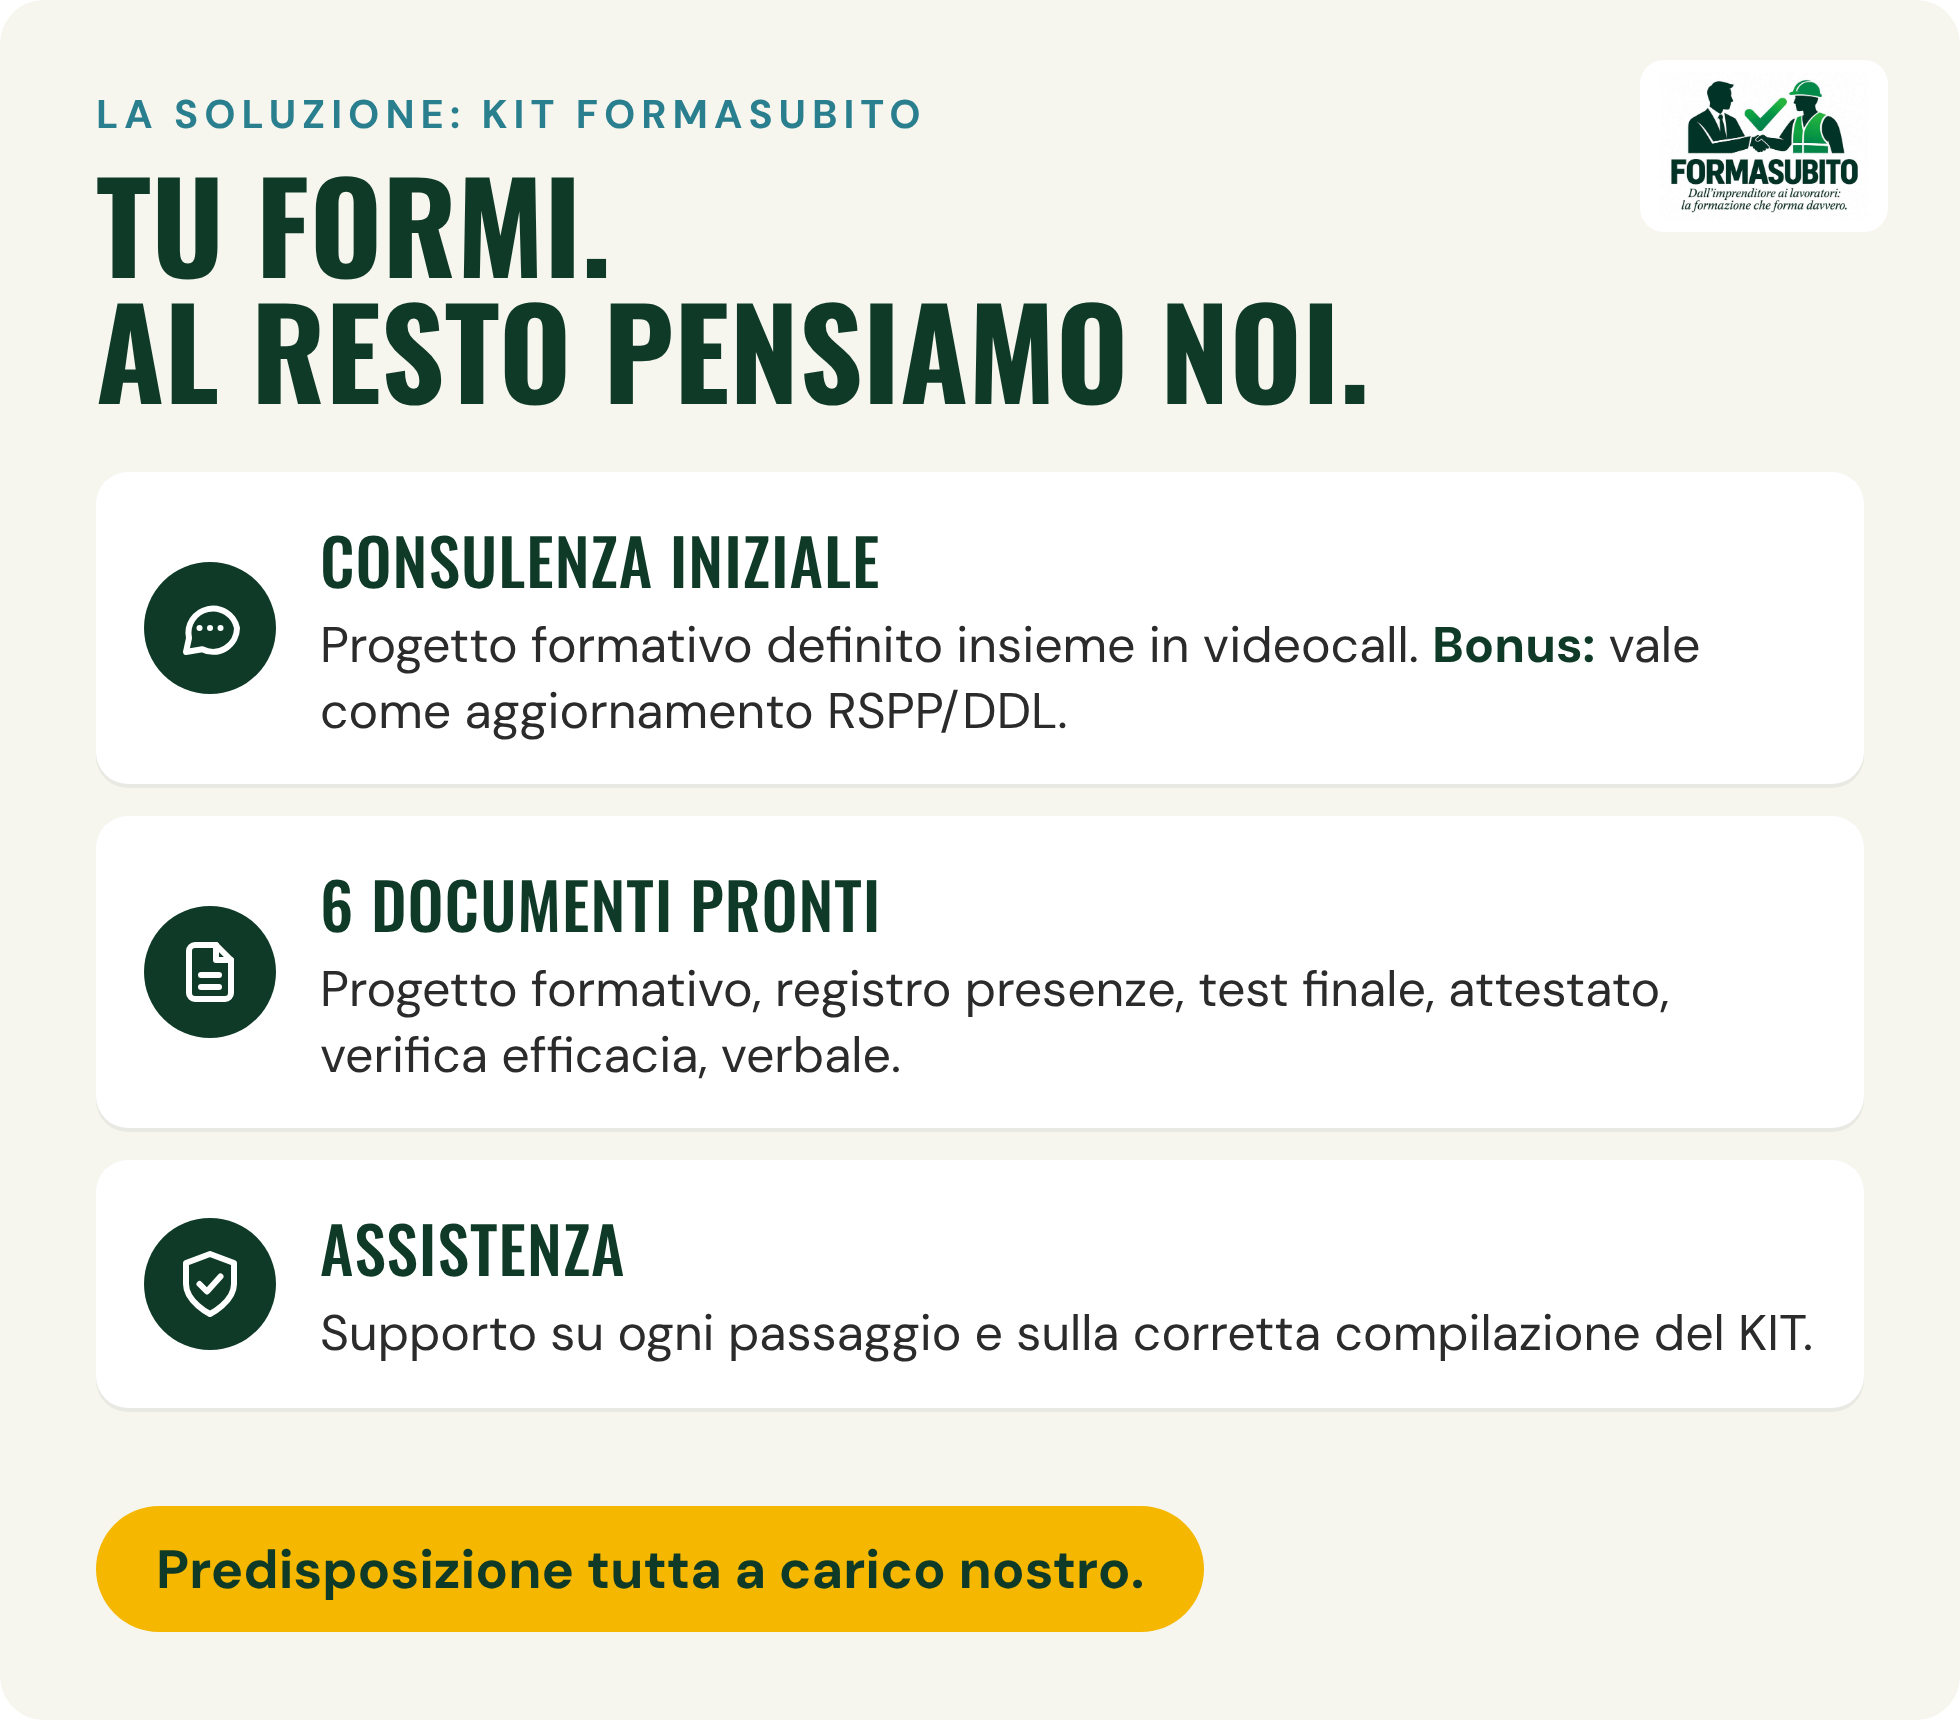
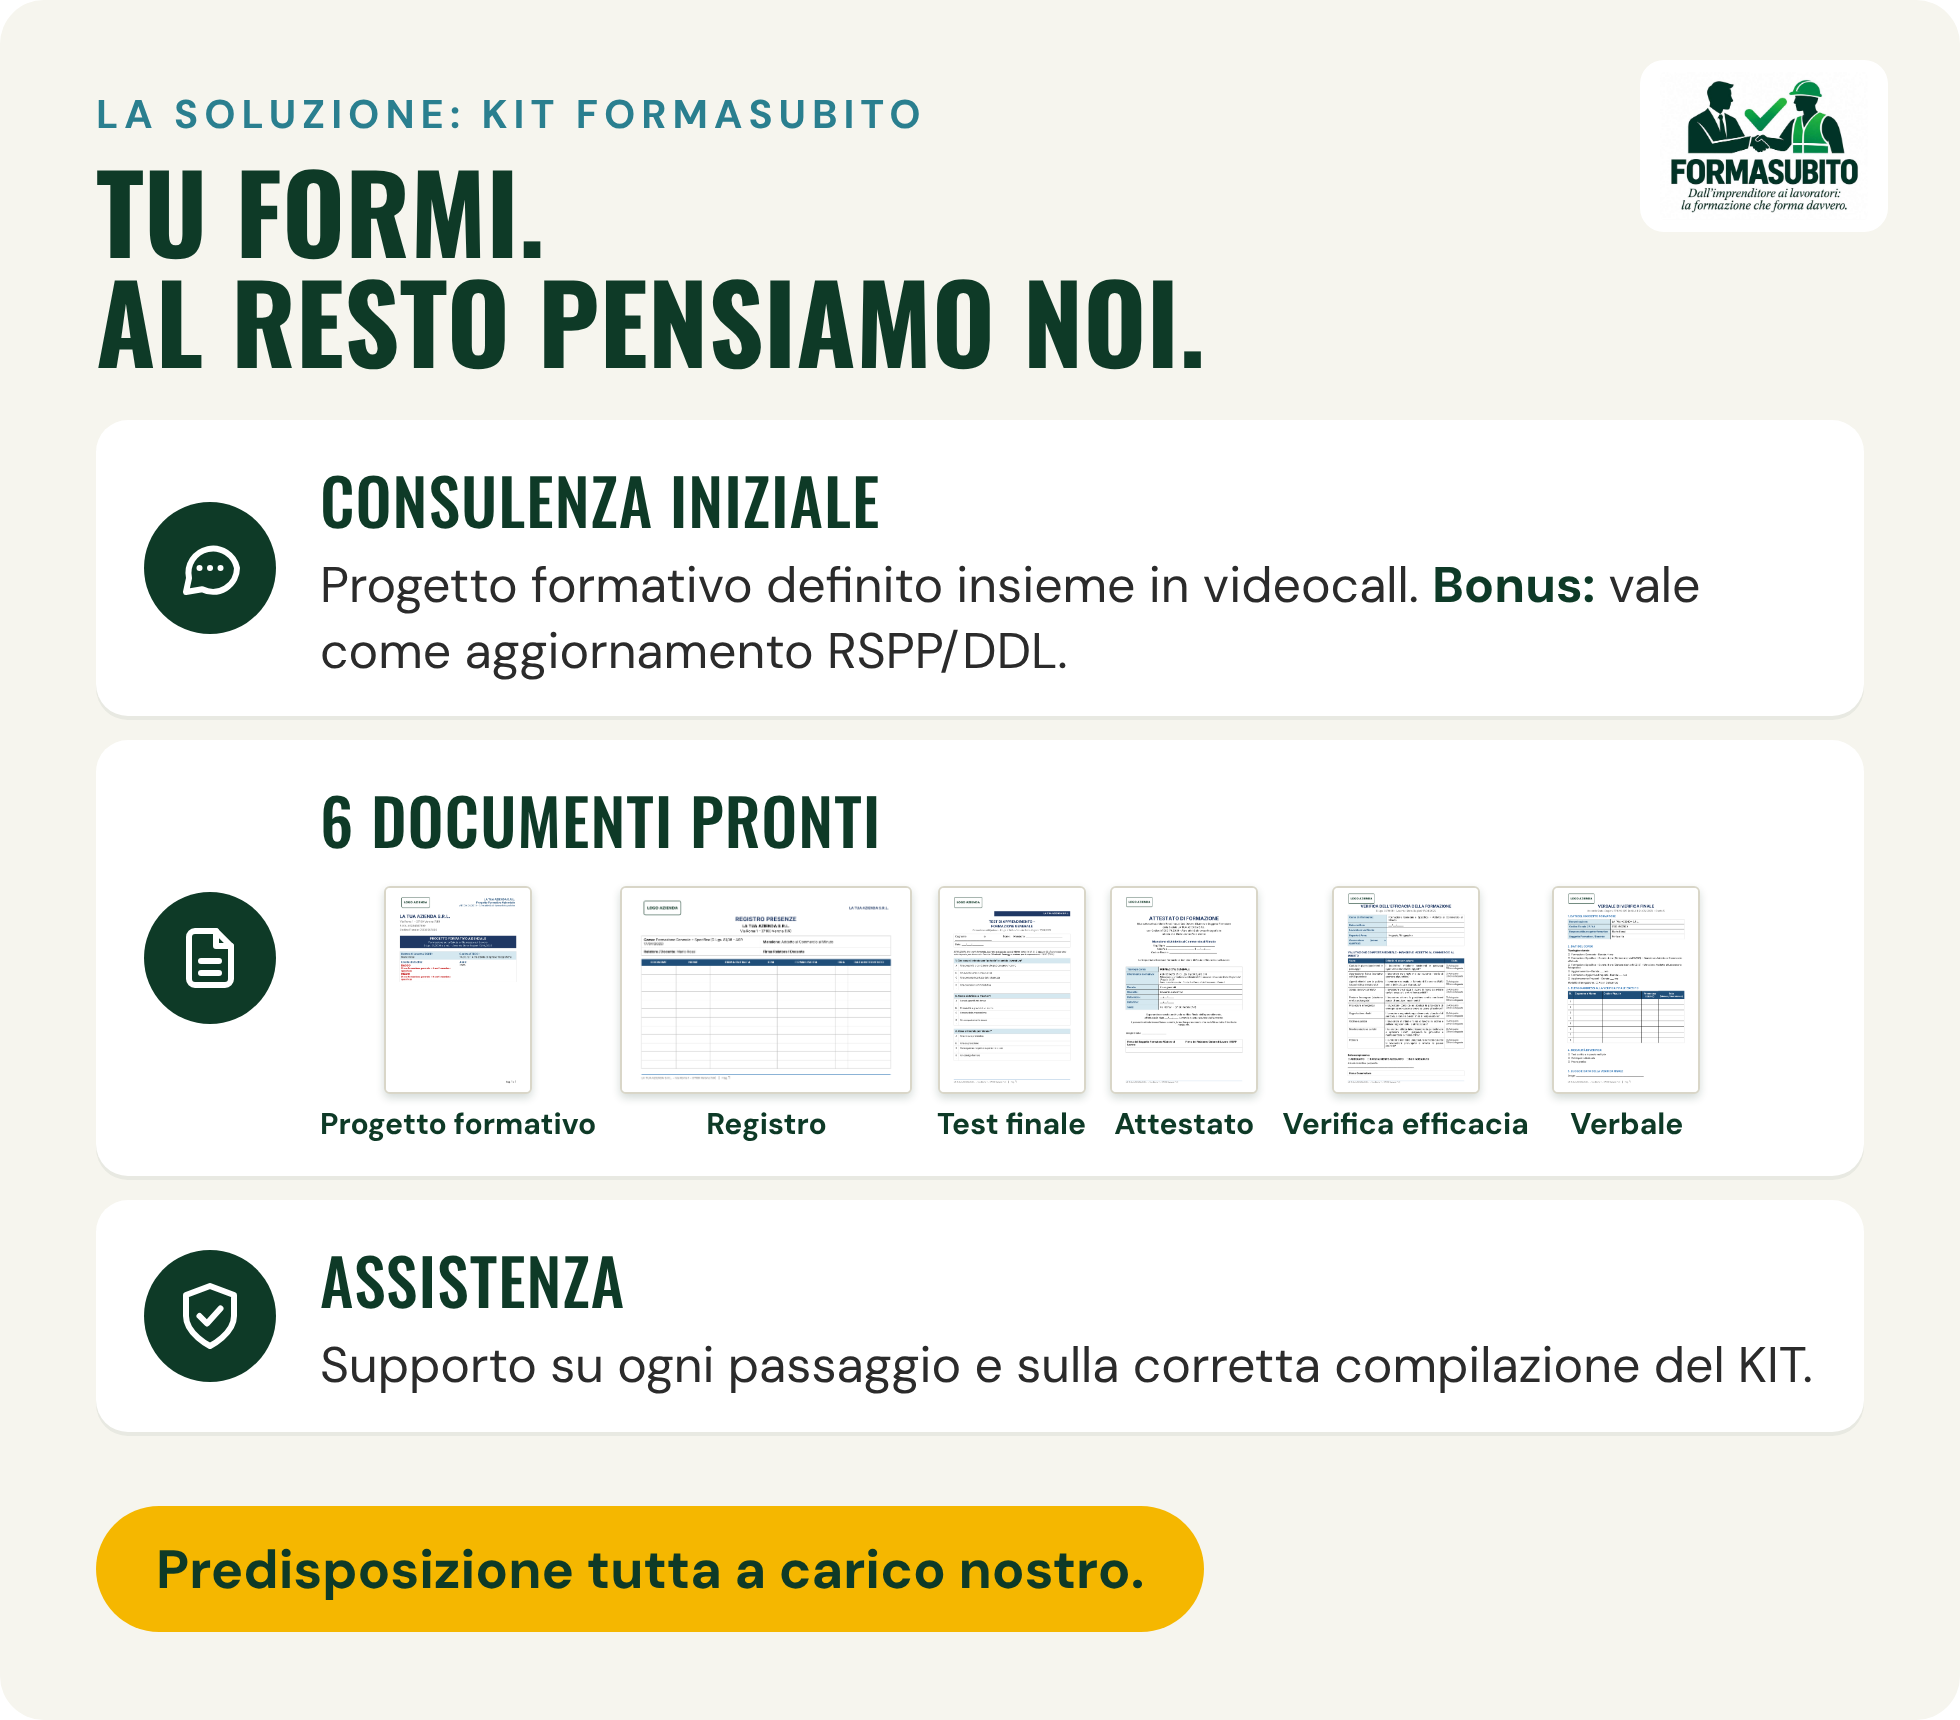
feat(offerta): miniature dei 6 documenti nella grafica tu-formi e pagina 1 sempre su una facciata
- tu-formi: nel riquadro "6 documenti pronti" le miniature della prima pagina dei
  6 documenti (da un KIT di esempio intestato a "LA TUA AZIENDA S.R.L.");
  sorgente con font e miniature in assets/grafiche/sorgenti/ (node render.js)
- passo Pagamento accorciato (bonifico IVA inclusa, IBAN, causale)
- grafica ridotta automaticamente con riepiloghi lunghi; nei casi estremi
  spazi compatti in riepilogo, oggetto e passi: l'offerta resta di 3 pagine

Claude-Session: https://claude.ai/code/session_01Tw4mttwAeWkLiuQxoox5hr

diff --git a/offerta/assets/grafiche/sorgenti/tu-formi.html b/offerta/assets/grafiche/sorgenti/tu-formi.html
@@ -9,25 +9,29 @@ body{background:#fff}
 .g{width:980px;height:860px;background:var(--crema);border-radius:22px;padding:44px 48px;font-family:DM;color:var(--testo);position:relative;display:flex;flex-direction:column}
 .logo{position:absolute;top:30px;right:36px;height:86px;background:#fff;border-radius:12px;padding:6px 10px}
 .k{font-family:DM;font-weight:700;font-size:20px;letter-spacing:3px;color:#2A7F8F;text-transform:uppercase}
-h1{font-family:Osw;font-weight:700;font-size:62px;line-height:1.02;color:var(--verde);margin-top:10px;text-transform:uppercase}
-.cards{margin-top:30px;display:flex;flex-direction:column;gap:16px;flex:1}
-.c{background:#fff;border-radius:16px;padding:20px 24px;display:flex;gap:22px;align-items:center;box-shadow:0 2px 0 rgba(14,58,39,.06)}
+h1{font-family:Osw;font-weight:700;font-size:54px;line-height:1.02;color:var(--verde);margin-top:8px;text-transform:uppercase}
+.cards{margin-top:22px;display:flex;flex-direction:column;gap:12px;flex:1}
+.c{background:#fff;border-radius:16px;padding:16px 24px;display:flex;gap:22px;align-items:center;box-shadow:0 2px 0 rgba(14,58,39,.06)}
 .i{flex:0 0 66px;height:66px;border-radius:50%;background:var(--verde);display:flex;align-items:center;justify-content:center}
 .i svg{width:36px;height:36px;stroke:#fff;fill:none;stroke-width:2;stroke-linecap:round;stroke-linejoin:round}
 .t{font-family:Osw;font-weight:500;font-size:32px;color:var(--verde);text-transform:uppercase;letter-spacing:.5px}
 .d{font-size:25px;line-height:1.3;margin-top:4px}
 .d b{color:var(--verde)}
-.pill{align-self:flex-start;margin-top:26px;background:var(--giallo);color:var(--verde);font-weight:700;font-size:27px;padding:14px 30px;border-radius:40px}
+.pill{align-self:flex-start;margin-top:18px;background:var(--giallo);color:var(--verde);font-weight:700;font-size:27px;padding:14px 30px;border-radius:40px}
+.mini{display:flex;gap:12px;margin-top:10px;align-items:flex-end}
+.mini figure{display:flex;flex-direction:column;align-items:center;gap:5px}
+.mini img{height:104px;border:1px solid #D9D6C8;border-radius:3px;box-shadow:0 2px 4px rgba(14,58,39,.18);background:#fff}
+.mini figcaption{font-size:15px;font-weight:700;color:var(--verde);white-space:nowrap}
 </style></head><body>
 <div class="g">
-  <img class="logo" src="logo_formasubito.png">
+  <img class="logo" src="../../logo_formasubito.png">
   <div class="k">La soluzione: KIT FORMASUBITO</div>
   <h1>Tu formi.<br>Al resto pensiamo noi.</h1>
   <div class="cards">
     <div class="c"><div class="i"><svg viewBox="0 0 24 24"><path d="M21 12a8 8 0 0 1-11.6 7.1L4 20l1-4.6A8 8 0 1 1 21 12z"/><path d="M8.5 12h.01M12 12h.01M15.5 12h.01"/></svg></div>
       <div><div class="t">Consulenza iniziale</div><div class="d">Progetto formativo definito insieme in videocall. <b>Bonus:</b> vale come aggiornamento RSPP/DDL.</div></div></div>
     <div class="c"><div class="i"><svg viewBox="0 0 24 24"><path d="M14 3H7a2 2 0 0 0-2 2v14a2 2 0 0 0 2 2h10a2 2 0 0 0 2-2V8z"/><path d="M14 3v5h5M9 13h6M9 17h6"/></svg></div>
-      <div><div class="t">6 documenti pronti</div><div class="d">Progetto formativo, registro presenze, test finale, attestato, verifica efficacia, verbale.</div></div></div>
+      <div><div class="t">6 documenti pronti</div><div class="mini"><figure><img src="miniature/doc1.png"><figcaption>Progetto formativo</figcaption></figure><figure><img src="miniature/doc2.png"><figcaption>Registro</figcaption></figure><figure><img src="miniature/doc3.png"><figcaption>Test finale</figcaption></figure><figure><img src="miniature/doc4.png"><figcaption>Attestato</figcaption></figure><figure><img src="miniature/doc5.png"><figcaption>Verifica efficacia</figcaption></figure><figure><img src="miniature/doc6.png"><figcaption>Verbale</figcaption></figure></div></div></div>
     <div class="c"><div class="i"><svg viewBox="0 0 24 24"><path d="M12 22s8-4 8-10V5l-8-3-8 3v7c0 6 8 10 8 10z"/><path d="M8.5 12l2.5 2.5 4.5-5"/></svg></div>
       <div><div class="t">Assistenza</div><div class="d">Supporto su ogni passaggio e sulla corretta compilazione del KIT.</div></div></div>
   </div>

diff --git a/offerta/assets/grafiche/sorgenti/render.js b/offerta/assets/grafiche/sorgenti/render.js
@@ -4,6 +4,6 @@ const { chromium } = require('playwright');
   const p = await b.newPage({ viewport: { width: 980, height: 860 }, deviceScaleFactor: 2 });
   await p.goto('file://' + __dirname + '/tu-formi.html');
   await p.evaluate(() => document.fonts.ready);
-  await p.locator('.g').screenshot({ path: __dirname + '/tu-formi.png', omitBackground: true });
+  await p.locator('.g').screenshot({ path: __dirname + '/../tu-formi.png', omitBackground: true });
   await b.close();
 })();

diff --git a/offerta/scripts/genera_offerta.py b/offerta/scripts/genera_offerta.py
@@ -32,6 +32,7 @@ offerta.json:
 "su" ammette: lavoratori, mansioni_aggiuntive, preposti, aggiornamenti, totale.
 """
 
+import math
 import argparse
 import copy
 import json
@@ -286,9 +287,8 @@ FONT = "Gill Sans MT"
 GIALLO, CREMA, ROSSO, GRIGIO = "F5B700", "F6F5EE", "B3261E", "6B6B6B"
 PROSSIMI_PASSI = [
     ("Firmate", "l'offerta e rimandatela a formasubito@overallgroup.info"),
-    ("Pagamento", "dell'importo di {ivato} ({totale} imponibile + {iva} IVA {aliquota}%) all'IBAN IT71 G083 4059 9600 0000 2176 704 "
-                  "(Cassa Padana BCC Società Cooperativa) intestato a OVERALL GROUP SRL, con causale "
-                  "\"Attivazione kit formasubito come da offerta del {data}\""),
+    ("Pagamento", "bonifico di {ivato} (IVA {aliquota}% inclusa) a OVERALL GROUP SRL, IBAN IT71 G083 4059 9600 0000 2176 704, "
+                  "causale \"Attivazione KIT FORMASUBITO, offerta del {data}\""),
     ("Consulenza", "in videocall: definiamo insieme il progetto formativo"),
 ]
 DESCRIZIONI = {
@@ -438,14 +438,15 @@ def _righe_riepilogo(info):
     return out
 
 
-def _box_riepilogo(doc, info):
+def _box_riepilogo(doc, info, compatto=False):
+    k = 0.5 if compatto else 1
     righe = _righe_riepilogo(info)
     t = _tabella_senza_bordi(doc, len(righe) + 2, 2, (Cm(12.0), Cm(5.0)))
     grigio = ("D9D9D9", 4)
     # intestazione verde
     h0, h1 = t.cell(0, 0), t.cell(0, 1)
     for c in (h0, h1):
-        _set_cell_shading(c, VERDE); _margini(c, 120, 120); _bordi(c, sopra=(VERDE, 8), sx=(VERDE, 8) if c is h0 else None,
+        _set_cell_shading(c, VERDE); _margini(c, int(120 * k), int(120 * k)); _bordi(c, sopra=(VERDE, 8), sx=(VERDE, 8) if c is h0 else None,
                                                                     dx=(VERDE, 8) if c is h1 else None)
         c.vertical_alignment = WD_ALIGN_VERTICAL.CENTER
     _run(_p(h0, nuovo=False), "LA VOSTRA PROPOSTA IN SINTESI", bold=True, size=12, colore="FFFFFF")
@@ -454,7 +455,7 @@ def _box_riepilogo(doc, info):
     for i, (nome, descr, importo, sconto) in enumerate(righe, start=1):
         c0, c1 = t.cell(i, 0), t.cell(i, 1)
         for c in (c0, c1):
-            _margini(c, 90, 90); c.vertical_alignment = WD_ALIGN_VERTICAL.CENTER
+            _margini(c, 30 if compatto else 90, 30 if compatto else 90); c.vertical_alignment = WD_ALIGN_VERTICAL.CENTER
         _bordi(c0, sotto=grigio, sx=grigio); _bordi(c1, sotto=grigio, dx=grigio)
         colore = ROSSO if sconto else None
         _run(_p(c0, nuovo=False), nome, size=10, colore=colore)
@@ -465,7 +466,7 @@ def _box_riepilogo(doc, info):
     n = len(righe) + 1
     t0, t1 = t.cell(n, 0), t.cell(n, 1)
     for c in (t0, t1):
-        _set_cell_shading(c, CREMA); _margini(c, 140, 140); c.vertical_alignment = WD_ALIGN_VERTICAL.CENTER
+        _set_cell_shading(c, CREMA); _margini(c, int(140 * k), int(140 * k)); c.vertical_alignment = WD_ALIGN_VERTICAL.CENTER
     _bordi(t0, sotto=grigio, sx=grigio); _bordi(t1, sotto=grigio, dx=grigio)
     _run(_p(t0, nuovo=False), "Totale annuo", bold=True, size=11)
     _run(_p(t1, nuovo=False, align=WD_ALIGN_PARAGRAPH.RIGHT), formatta_eur(info["totale"]), bold=True, size=18, colore=VERDE)
@@ -480,7 +481,7 @@ def _badge(p, numero):
     r._r.get_or_add_rPr().append(shd)
 
 
-def _passi(container_cell, info, data_str):
+def _passi(container_cell, info, data_str, compatto=False):
     """Tre schede crema con numero giallo, una sotto l'altra."""
     n = container_cell.add_table(rows=len(PROSSIMI_PASSI), cols=1)
     n.autofit = False
@@ -488,7 +489,7 @@ def _passi(container_cell, info, data_str):
     for i, (titolo, testo) in enumerate(PROSSIMI_PASSI):
         c = n.cell(i, 0)
         c.width = Cm(6.4)
-        _set_cell_shading(c, CREMA); _margini(c, 110, 110, 160, 160)
+        _set_cell_shading(c, CREMA); _margini(c, 50 if compatto else 110, 50 if compatto else 110, 160, 160)
         _bordi(c, sopra=("FFFFFF", 24) if i else None, sotto=("FFFFFF", 24) if i < len(PROSSIMI_PASSI) - 1 else None)
         p = _p(c, nuovo=False)
         _badge(p, i + 1)
@@ -499,7 +500,33 @@ def _passi(container_cell, info, data_str):
     return n
 
 
+def _larghezza_grafica(cliente, info, spec):
+    """Larghezza (cm) della grafica perché la pagina 1 resti su una facciata.
+
+    ponytail: stima a righe calibrata sul PDF di LibreOffice (pt per riga misurati);
+    con un riepilogo lungo la grafica si riduce fino all'altezza dei prossimi passi.
+    Se cambiano font, testi o spaziature della pagina 1, ricalibrare le costanti."""
+    L, H_PIENA, H_MIN, MARGINE = 9.8, 243.8, 180.0, 107.7     # cm, pt, pt, pt
+    righe = _righe_riepilogo(info)
+    extra = sum(31.3 if d else 21.6 for _, d, _, _ in righe) - 31.3
+    n_ind = len([r for r in cliente["indirizzo"].split("\n") if r.strip()]) + 1
+    extra += 12.1 * max(0, n_ind - 3)
+    extra += 14.5 * (math.ceil(len(cliente["ragione"]) / 28) - 1)
+    extra += 10.0 * (math.ceil(len(cliente["mail"]) / 45) - 1)
+    if spec.get("nota"):
+        extra += 12.7 + 9.6 * (math.ceil(len(spec["nota"]) / 140) - 1)
+    h = H_PIENA - max(0.0, extra - MARGINE)
+    compatto = h < H_MIN          # spazi ridotti in riepilogo, oggetto e passi (stessi testi)
+    if compatto:
+        h, h_min = min(H_PIENA, h + 6 * len(righe) + 26), H_MIN - 18
+        if h < h_min:
+            print(f"⚠  Riepilogo molto lungo: la pagina 1 potrebbe non stare su una facciata (mancano ~{h_min - h:.0f} pt). Controlla il PDF.")
+            h = h_min
+    return round(L * h / H_PIENA, 2), compatto
+
+
 def pagina_lettera(doc, cliente, info, spec, data_str):
+    largh_grafica, compatto = _larghezza_grafica(cliente, info, spec)
     # data, riferimenti e destinatario, staccati dall'intestazione
     _par(doc, prima=0, dopo=12)
     t = _tabella_senza_bordi(doc, 1, 2, (Cm(8.8), Cm(8.2)))
@@ -518,14 +545,14 @@ def pagina_lettera(doc, cliente, info, spec, data_str):
     _run(_p(dx, prima=3), cliente["mail"], size=8.5, colore=GRIGIO)
 
     # oggetto e apertura
-    _run(_p(doc, prima=16), "Oggetto: offerta KIT FORMASUBITO – formazione obbligatoria D.Lgs. 81/08 erogata in azienda",
+    _run(_p(doc, prima=8 if compatto else 16), "Oggetto: offerta KIT FORMASUBITO – formazione obbligatoria D.Lgs. 81/08 erogata in azienda",
          bold=True, size=10.5)
-    p = _p(doc, prima=4, dopo=10, align=WD_ALIGN_PARAGRAPH.JUSTIFY)
+    p = _p(doc, prima=4, dopo=5 if compatto else 10, align=WD_ALIGN_PARAGRAPH.JUSTIFY)
     _run(p, "In seguito ai colloqui intercorsi, Vi proponiamo i KIT FORMASUBITO: il Datore di Lavoro eroga direttamente "
             "la formazione obbligatoria ai propri lavoratori e preposti, con progetto formativo e documenti già "
             "predisposti da noi sulle mansioni del Vostro DVR.", size=10)
 
-    _box_riepilogo(doc, info)
+    _box_riepilogo(doc, info, compatto)
     if spec.get("nota"):
         _run(_p(doc, prima=3), spec["nota"], size=8, colore=GRIGIO)
 
@@ -539,12 +566,12 @@ def pagina_lettera(doc, cliente, info, spec, data_str):
     if gid:
         _set_cell_shading(sxg, CREMA); _margini(sxg, 120, 120, 120, 120)
         sxg.vertical_alignment = WD_ALIGN_VERTICAL.CENTER
-        largh = 6.5 if gid == "infografica" else 9.8
+        largh = 6.5 if gid == "infografica" else largh_grafica
         p = _p(sxg, nuovo=False, align=WD_ALIGN_PARAGRAPH.CENTER)
         p.add_run().add_picture(str(ASSETS / "grafiche" / GRAFICHE[gid]["file"]), width=Cm(largh))
     _margini(dxg, 0, 0, 200, 0)
     dxg.paragraphs[0].paragraph_format.space_after = Pt(0)
-    _passi(dxg, info, data_str)
+    _passi(dxg, info, data_str, compatto)
     _run(_p(doc, prima=4), "Contenuti del servizio e condizioni complete alla pagina 2.", size=8, colore=GRIGIO)
 
 
